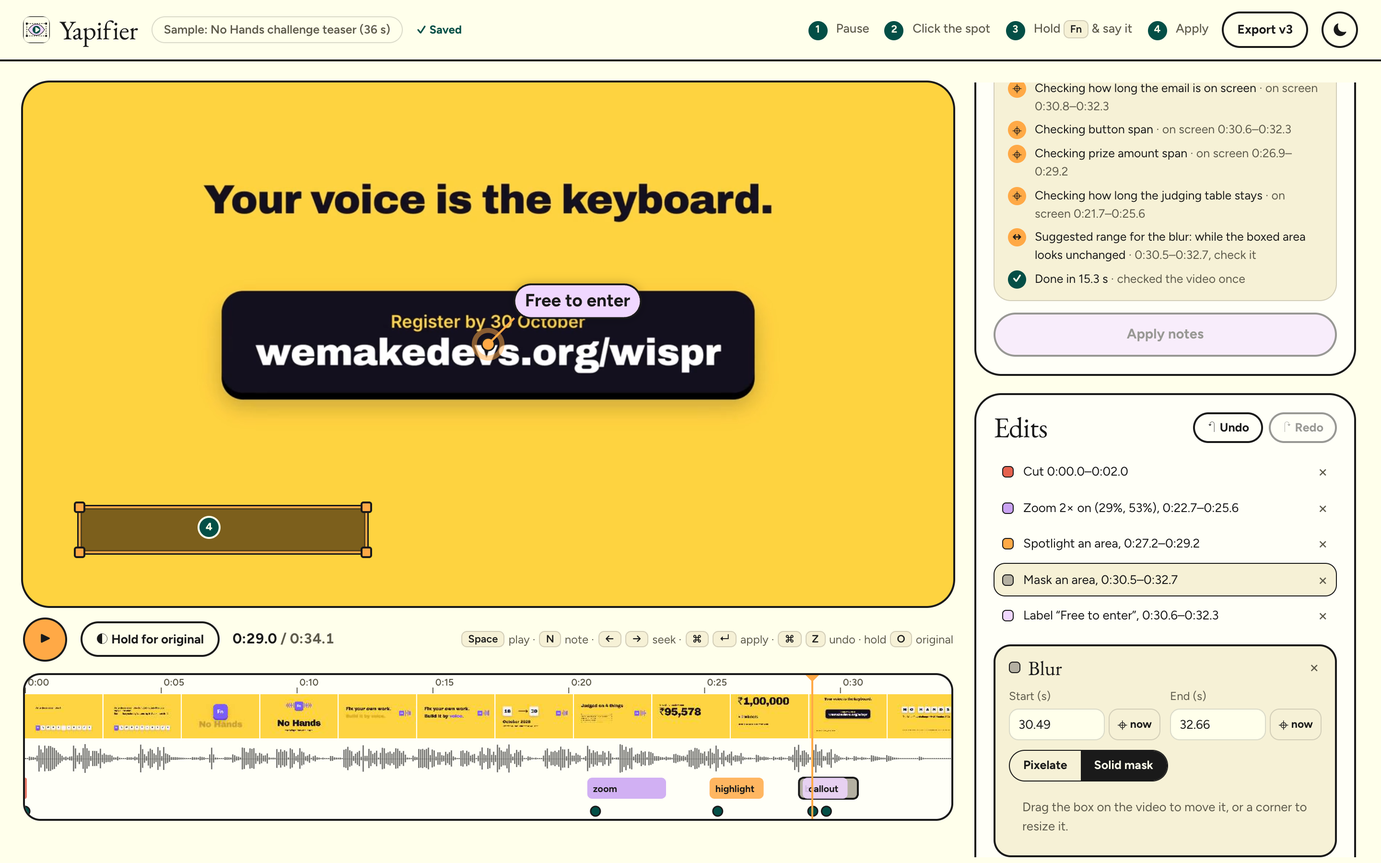
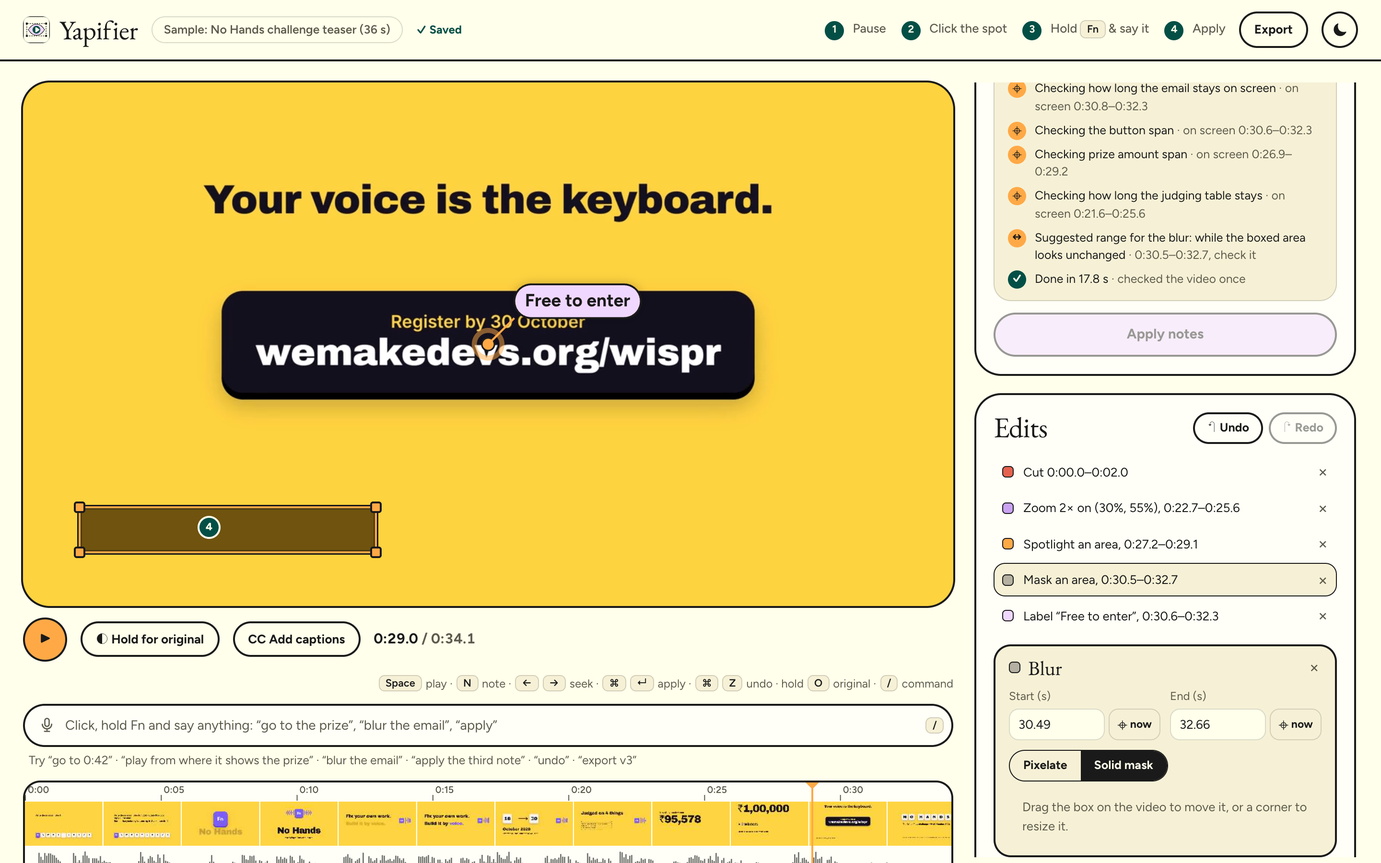
README and CLAUDE.md: voice commands, captions, and where the project stands
- README: new "Talk to the timeline" and "Captions" sections with fresh
  screenshots; every screenshot retaken with the current UI; the privacy
  table now covers commands, keyframes, audio and caption text; numbers from
  the final command-bar eval (107/109, median 3.0 s, ~0.7¢ per command) and
  the captions worker (no main-thread task over 50 ms); limits and what's next
- CLAUDE.md: project status, decisions and why, how Maulik works (one PR per
  feature, he merges), merge rule around the deadline, measured numbers, and
  the gotchas hit on Oct 30
- Screenshot script: voice and captions shots; keys sent to the page body

diff --git a/CLAUDE.md b/CLAUDE.md
@@ -1,76 +1,134 @@
 # Yapifier
 
-Voice-driven video editor, built for the WeMakeDevs × Wispr Flow "No Hands" hackathon (solo, Builders track; the official page now says submissions close Sat 31 Oct 2026, 11:59 pm IST; our target is Fri 30 Oct, freeze Thu 29 Oct). Brief, judging and dates: `planning/BRIEF.md`.
+Voice-driven video editor, built solo for the WeMakeDevs × Wispr Flow "No Hands" hackathon (Builders track). Brief, judging and dates: `planning/BRIEF.md`.
 
-You pause any video, click the spot, hold Fn and say the change with Wispr Flow. Yappy, the editor agent, looks at the paused frame, checks the rest of the video with tools that run in the browser (`look` at frames, `track` how long a box's content stays on screen), and returns edit ops; the app re-renders the edit. **Edits never touch the footage's pixels:** they are laid over and around it (zoom, callout, highlight, blur, cut, speed, freeze, title card, volume).
+You pause any video, click the spot, hold Fn and say the change with Wispr Flow. Yappy, the editor agent, looks at the paused frame, checks the rest of the video with tools that run in the browser (`look` at frames, `track` how long a box's content stays on screen), and returns edit ops; the app re-renders the edit. Or you say anything into the command bar ("go to where it shows ₹1 lakh", "blur the email", "add captions", "export v3") and Yappy works out what you meant. **Edits never touch the footage's pixels:** they are laid over and around it (zoom, callout, highlight, blur, cut, speed, freeze, title card, volume, captions).
 
-- Live: https://yapifier.vercel.app (Vercel project `yapifier`). **Every push to `main` auto-deploys to production.**
+- Live: https://yapifier.vercel.app (Vercel project `yapifier`). **Every push to `main` auto-deploys to production**, and production is what the judges score.
 - Repo: https://github.com/Maulik176/Yapifier (public). The build's commit id is on `<html data-build>`, not shown on the page.
+- Demo video: https://youtu.be/ExVRB296H3s (3:51; it shows the notes flow, not the command bar or captions).
+
+## Where the project stands (30 Oct 2026)
+
+- **Submitted.** Submissions close **Sat 31 Oct 2026, 11:59 pm IST**. Scores and judges' comments are published Wed 4 Nov, Thu 5 Nov is the last day to question a score, and winners are announced Fri 6 Nov.
+- **Merge rule:** merge to `main` only before the deadline, or after scores are out (4 Nov). Between them, judges must see the app that was submitted.
+- **Done and decided, don't re-propose:** the 3:51 demo video stays (no 2:00 cut). The LinkedIn #NoHandsChallenge post is published. No dev.to blog for now.
+- **Left for Maulik:** upload a fresh Wispr usage card to the submission form on Saturday evening, and re-read the submission.
+- **Shipped after submission, as pull requests:**
+  - PR #1, *Talk to the timeline* (the command bar and `/api/talk`): **merged** 30 Oct and checked on production.
+  - PR #2, *Captions* (Whisper in the browser, changed by voice): **merged** 30 Oct.
+  - A docs PR (`docs/readme-v2`): README and this file.
+- **Dropped on purpose:** *Reframe for social* (9:16, 1:1, 4:5) and *Publish directly* (YouTube, LinkedIn, Slack). Maulik ended the project at captions. If they come back after judging:
+  - **Publish:** YouTube uploads from an unverified Google API project are locked to private until Google audits it. LinkedIn and Slack can't take a browser upload directly and Vercel functions cap a request body at 4.5 MB, so the video would need temporary storage (Vercel Blob) in between. Maulik has to create each developer app himself.
+  - **Reframe:** the research notes are in the session history: Premiere Auto Reframe (slower/default/faster), CapCut, OpusClip layouts (fit, split, fill), and safe zones for Reels and Shorts.
+
+## How Maulik works
+
+- **One branch and one pull request per feature** (`feat/…`, stacked when one needs the other). Maulik reviews and merges each himself. Never merge for him; open the PR, check its status, and say what to test.
+- He tests on **localhost and production**, not on Vercel preview links. The Preview environment has no `ANTHROPIC_API_KEY`, so Yappy can't answer there, and he chose not to add it.
+- **Commit only when asked.** Use his dictated words when he gives a commit note (the hackathon scores how much writing went through Flow); otherwise write a plain one. End with the `Co-Authored-By` trailer; PR bodies end with the Claude Code line.
+- Show everything in chat (lists, plans, results), not "see the file". Wait for his go-ahead before starting the next feature.
+- He wants a high bar: think like a judge, test like a stranger, measure claims (the eval), push back when something risks the judged link or the deadline.
 
 ## Commands
 
 ```bash
-npm run dev        # http://localhost:5173, serves /api/apply through the Vite middleware
+npm run dev        # http://localhost:5173, serves /api/apply and /api/talk through the Vite middleware
 npm run typecheck  # tsc -b; delete tsconfig.tsbuildinfo afterwards (it's ignored)
 npm run build      # typecheck + production build into dist/
-node evals/talk/run.mjs   # command-bar eval: 99 utterances, accuracy, speed, cost (calls the API: ~$0.45 on Opus; TALK_MODEL=... to compare)
+npm test           # unit tests: command parser, keyframe scenes, captions, compare (Node's test runner; Vite loads the TypeScript)
+node evals/talk/run.mjs            # command-bar eval: 109 phrases; accuracy, speed, cost (real API calls, about $0.60 on Opus)
+TALK_MODEL=claude-haiku-5-5 node evals/talk/run.mjs   # the same against another model (a few cents)
+node evals/talk/run.mjs captions find                 # only some categories
+node docs/media/src/screenshots.mjs docs/media        # README screenshots from the running dev server (makes one apply and a few talk calls)
 ```
 
 ## Layout
 
 - `src/edit/`: the engine, with no React in it.
-  - `types.ts`: edits, source, notes, versions. Times are **source seconds**; positions are **fractions of the frame (0–1)**.
+  - `types.ts`: edits, source, notes, versions. Times are **source seconds**; positions are **fractions of the frame (0–1)**. A note said in the command bar has `unpinned: true` (no clicked spot); `server/apply.ts` then gets x = y = -1.
   - `timeline.ts`: turns edits into play/hold segments; maps edited time ↔ source time.
-  - `ops.ts`: the only way edits change. It validates and clamps every op from Claude. It's shared with the server, so it has no DOM imports.
-  - `render.ts`: paints one frame (zoom window, pixelated blur, spotlight, callouts, title cards); `toSource`/`toOutput` map clicks through a zoom.
-  - `player.ts`: drives the `<video>` through cuts, speed changes and holds; routes audio through Web Audio for volume edits and recording.
+  - `ops.ts`: the only way the agent's edits change. It validates and clamps every op. Shared with the server, so no DOM imports.
+  - `render.ts`: paints one frame (zoom window, pixelated blur, spotlight, callouts, title cards, captions); `toSource`/`toOutput` map clicks through a zoom.
+  - `player.ts`: drives the `<video>` through cuts, speed changes and holds; routes audio through Web Audio for volume edits and recording. `setEdits` never seeks.
   - `media.ts`: upload reading, filmstrip thumbnails, waveform, frame snapshots, real-time export (MediaRecorder, MP4 where supported).
-  - `track.ts`: `Footage` (a second hidden `<video>` for reading original frames and grayscale patches) and box tracking. It estimates how long a **fixed box** looks unchanged; it does not follow moving content, so the UI calls its result a suggested range to check. `fitToFootage` only narrows **newly added** overlays whose op didn't set `exact` (timing the director asked for on purpose is kept as given).
-  - `agent.ts`: runs the agent's `look` and `track` tool calls in the browser and builds the tool results.
-  - `commands.ts`: the command bar's own parser. Exact commands (`isExact`: play, pause, "go to 0:42", undo, "export v3"…) run at once with no model call; everything else goes to Yappy.
-  - `talk.ts`: asks `/api/talk` about anything else and runs its `see_video` (the keyframe strip) and `look` calls; `toCommand` turns Yappy's actions into commands.
-  - `scenes.ts`: splits sampled frames into scenes for the keyframe strip (`Footage.keyframes`); shared with the eval so both build the same strip.
-  - `captions.ts`: captions are an edit kind (`captions`, not in `EDIT_KINDS`, so the agent's ops can't make them): words into short lines, word timing for the bold highlight, `rewrite` for fixes and translation, `toSrt` timed to the edited video.
-  - `transcribe.ts` + `whisper.worker.ts`: speech to text for uploads in the browser: Whisper (`Xenova/whisper-base`, q8, WASM) through transformers.js 4.3.1 loaded from jsDelivr, run in a Web Worker so playback never stalls (on the main thread it was one 12 s task); the model downloads from Hugging Face once per browser. The sample uses `public/samples/no-hands-sample.words.json` (made with whisper-cli), so judges need no download.
-  - `sample.ts`: the sample video (MP4, with a WebM copy for browsers without H.264) and its 5 sample notes. **Their coordinates must match what is on screen in the sample.**
-- `src/components/`: Landing (with the resume card), Stage (canvas + pins + note box), Timeline, Panels (notes, answer box, agent log, edits list, versions), NotePopover, Inspector (exact times, text, strength, blur style for the selected edit), EditHandles (drag and resize the selected edit on the video), CommandBar (talk to the timeline: `/` focuses it, Flow's paste runs at once, Yappy's questions come back as choice buttons).
-- Export runs in the background (`recordExport` in `media.ts`): its own hidden video, player and canvas record a frozen copy of the chosen version, with the sound going to the recording only, so the editor stays fully usable. Stop cancels it; a hidden tab stalls it. Hold `O` (or the Original button) only swaps the picture to the untouched footage (`Player.showOriginal`); the edited timeline stays the clock.
-- Note and answer boxes take Flow's paste themselves (`src/components/paste.ts`): plain text, or the words out of rich text; a paste with no text shows a hint to press ⌘⌃V (Flow's "paste last transcript"). Flow restores your old clipboard ~0.5 s after pasting.
-- The stage only re-renders the editor when the clock moves, so a paused editor is idle.
+  - `track.ts`: `Footage` (a second hidden `<video>` for reading original frames and grayscale patches), box tracking, and `keyframes()` (the strip for finding things on screen, built once per video). Tracking estimates how long a **fixed box** looks unchanged; it doesn't follow moving content, so the UI calls its result a suggested range to check. `fitToFootage` only narrows **newly added** overlays whose op didn't set `exact`.
+  - `scenes.ts`: splits sampled 64×36 grey frames into scenes (pixel 0.08, 2% of the frame) and picks the frame 60% into each; shared with the eval so both build the same strip.
+  - `agent.ts`: runs the `look` and `track` tool calls in the browser and builds the tool results.
+  - `commands.ts`: the command bar's own parser. Only exact commands (`isExact`: play, pause, "go to 0:42", nudges, undo/redo, versions, export, "add captions", "turn off the subtitles", "note: …") run locally with no model call; anything else goes to Yappy. Don't grow it phrase by phrase: phrasing is Yappy's job.
+  - `talk.ts`: sends a command to `/api/talk`, runs Yappy's `see_video` (the keyframe strip) and `look` calls, and `toCommand` turns Yappy's actions into commands. A repeated `see_video` gets a text answer, never the strip twice.
+  - `captions.ts`: captions are an edit kind (`captions`, not in `EDIT_KINDS`, so the agent's ops can't make them). Groups words into short lines, keeps word timing for the bold highlight (`wordsOf` spreads words when a line was rewritten), `rewrite` for fixes and translation, `toSrt` timed through the edit's timeline.
+  - `transcribe.ts` + `whisper.worker.ts`: speech to text for uploads, in the browser. Whisper (`Xenova/whisper-base`, multilingual, q8, WASM) through **transformers.js 4.3.1 loaded from jsDelivr**, running in a **Web Worker**. On the main thread it was one 12.4 s task that froze playback; in the worker, no main-thread task is over 50 ms. The model (about 80 MB) downloads from Hugging Face once per browser, then loads from Cache Storage (`transformers-cache`); the button says "Loading" rather than "Getting" when it's cached.
+  - `sample.ts`: the sample video (MP4, with a WebM copy for browsers without H.264), its 5 sample notes, and `words` (`public/samples/no-hands-sample.words.json`, the voiceover transcribed with whisper-cli, so the sample's captions need no download). **The notes' coordinates must match what is on screen in the sample.**
+- `src/components/`:
+  - **Landing**, with the resume card.
+  - **Stage:** the canvas, pins, the note box and the toast.
+  - **Timeline**, **NotePopover**.
+  - **Panels:** notes, the answer box, agent log, edits list, versions.
+  - **Inspector:** exact times, text, strength, blur style; for captions: style, position, size, every line, Download .srt.
+  - **EditHandles:** drag and resize the selected edit on the video.
+  - **CommandBar:** `/` focuses it; Flow's paste runs at once; while it's empty, Space and the arrows still play and seek; Yappy's questions come back as choice buttons.
+  - **Modal**, **ExportDialog**.
+- `src/App.tsx`:
+  - **The editor:** notes, apply (all waiting notes, or a given list), versions, undo, export, save and resume.
+  - **The command runner:** `execute` (async, can return a `wait` for an apply), `runAll`, `askYappy`, `talkState`.
+  - **Captions:** `addCaptions` (a low-priority `startTransition` update and toasts), `downloadSrt`.
+  - **Keyboard:** the window key handler reads `target.dataset`. Fire synthetic keys on `document.body`, not `window`.
+- Export runs in the background (`recordExport` in `media.ts`): its own hidden video, player and canvas record a frozen copy of the chosen version, with the sound going to the recording only. Stop cancels it; a hidden tab stalls it. Hold `O` only swaps the picture to the untouched footage (`Player.showOriginal`); the edited timeline stays the clock.
+- Note, answer and command boxes take Flow's paste themselves (`src/components/paste.ts`): plain text, or the words out of rich text; an empty paste shows a hint to press ⌘⌃V (Flow's "paste last transcript"). Flow restores your old clipboard ~0.5 s after pasting. A paste with nothing focused runs as a command.
 - `src/save.ts`: autosave of the project (and the uploaded video, when it fits) in IndexedDB; the landing page offers to resume it. Hand adjustments to one edit fold into a single version (`Version.tweak`).
-- `server/talk.ts`: the `/api/talk` handler. One step per request; the browser sends a short editor snapshot (never frames), the last 3 commands, and the keyframe strip once Yappy has asked for it (first in the message, so later commands read it from the cache). Logs token usage per step. Its own rate limits (`DAILY_TALK_CAP`).
-- `evals/talk/`: the command-bar test set (`cases.mjs`) and runner (`run.mjs`); results and ffmpeg frames go to ignored `results/` and `.cache/`.
-- `server/apply.ts`: the `/api/apply` handler, **one agent step per request** (prompt, tools, JSON schema, redaction, rate limits). The browser sends the run so far as `transcript` and must send assistant turns back unchanged (thinking blocks included); the first user message is rebuilt identically each step. Only the first step counts as an apply for rate limits. `api/apply.ts` is the Vercel wrapper; `vite.config.ts` mounts the same handler in dev.
-- `public/samples/no-hands-sample.mp4`: the judges' sample (720p web copy).
+- `server/apply.ts`: the `/api/apply` handler (notes into edit ops), **one agent step per request**. The browser sends the run so far as `transcript` and must send assistant turns back unchanged (thinking blocks included); the first user message is rebuilt identically each step. Only the first step counts as an apply for rate limits. Captions edits are summarized, not sent as JSON. `api/apply.ts` is the Vercel wrapper.
+- `server/talk.ts`: the `/api/talk` handler (the command bar), one step per request:
+  - **Sent:** a short text snapshot of the editor (clock, clock→video map, versions, notes, edits, caption lines; never frames), the last 3 commands, and the keyframe strip once Yappy has asked for it. The strip goes first in the message, so later commands read it from the prompt cache.
+  - **Answer:** editor actions in a strict schema (seek, play, pause, nudge, apply, undo, redo, view, restore, export, original, remove, note, edit, captions) plus a reply, or a question with 2–4 choices.
+  - **Limits:** at most 3 tool rounds; the last round runs with `tool_choice: none`, so it answers. Its own rate limits (`DAILY_TALK_CAP`). Logs token usage per step.
+  - `api/talk.ts` is the Vercel wrapper; `vite.config.ts` mounts both handlers in dev.
+- `evals/talk/`: the command-bar test set (`cases.mjs`: 109 phrases with fixtures and expected actions; the scene map of the sample is in its header comment) and runner (`run.mjs`: parser first as in the app, the real handler for the rest, ffmpeg frames for the tools, scoring, tokens and cost). Results and frames go to the ignored `results/` and `.cache/`.
+- `tests/`: `commands`, `scenes`, `captions` and `compare` tests.
+- `docs/media/`: README images; `src/` has the screenshot script and the banner and diagram sources (`sh docs/media/src/render.sh`).
+- `public/samples/`: the judges' sample (720p web copy, WebM copy, voiceover words).
 - `sample-video/`: the HyperFrames project that makes the sample (see below).
-- `planning/`: brief, plan, research and icon options. Not deployed.
-- `spikes/`: day-1 experiments. Not deployed.
+- `planning/`: brief, plan, research and icon options. Not deployed. `spikes/`: day-1 experiments. Not deployed.
+
+## Measured (keep claims to these, or re-measure)
+
+- **Command bar,** Oct 30 eval on the sample (final code): Opus 5.5 107/109 (both misses were on-screen finds landing about 0.5 s before their scene), median 3.0 s, p90 4.0 s, about 0.7¢ per command sent to Yappy. 25 of 109 phrases are handled by the parser with no call. Haiku 5.5 scored 92/99 at about 0.02¢, but blurred the words "client email" instead of the email address, so the command bar stays on Opus.
+- **Captions:** the sample's lines come from its words file instantly. An upload of the 36 s sample is captioned in 13–18 s once the model is cached. A cold first call to `/api/talk` on production took about 12 s (keyframes plus cold start); warm calls take about 3 s.
+- **Notes:** five sample notes apply in 16–22 s.
 
 ## Rules for this repo
 
-- **Claude API:** official `@anthropic-ai/sdk`, model `claude-opus-5-5`, effort `low` (env `APPLY_MODEL`, `APPLY_EFFORT`; `TALK_MODEL`, `TALK_EFFORT` for the command bar, where the Oct 30 eval had Opus 5.5 at 97/99 and Haiku 5.5 at 92/99 with wrong blur targets), structured output via `output_config.format`, `fallbacks: "default"` with beta `server-side-fallback-2026-07-01`. The SDK is loaded lazily inside the handler.
-- **Keys:** `ANTHROPIC_API_KEY` lives in `.env.local` for dev and in Vercel production env (sensitive). Never print, commit or paste it. `DAILY_APPLY_CAP` is optional.
-- **Server-side imports use explicit `.js` extensions** (`../src/edit/ops.js`). Vercel runs the function as ESM and breaks on extensionless relative imports.
-- **Privacy:** uploaded videos never leave the browser; only the note text, the pinned frame (JPEG, 640 px), any frames Yappy asks for with `look` (480 px) and, once a spoken command needs to find something on screen, the keyframe strip (one 320 px frame per scene) go to the model; the command bar says so the first time. Captions are transcribed in the browser (the audio never leaves it); caption text goes to Yappy only when you change captions by voice (fixes, translation). Notes are redacted (emails, key-like strings, phone numbers) before the call. New blur boxes get a safety margin in `ops.ts`.
-- **Note text is data:** the prompt wraps it in `<note>`/`<answer>` tags; keep that when changing the prompt.
-- **Branding: the agent is Yappy.** Don't say or show that Yappy is Claude (or name the model or provider) in the app's UI, the README, the banner, diagrams or the demo. The provider shows up only where it must: code, the API key setup in "Run it locally", and how the project was built (Claude Code).
+- **Claude API:** official `@anthropic-ai/sdk`, model `claude-opus-5-5`, effort `low` (env `APPLY_MODEL`, `APPLY_EFFORT`; `TALK_MODEL`, `TALK_EFFORT` for the command bar), structured output via `output_config.format`, `fallbacks: "default"` with beta `server-side-fallback-2026-07-01` (only for models that have server-side fallback; not Haiku 5.5). Forced `tool_choice` `any`/`tool` returns a 400 on Opus 5.5; `none` and `auto` work. The SDK is loaded lazily inside the handlers.
+- **Keys:** `ANTHROPIC_API_KEY` lives in `.env.local` for dev and in Vercel's **Production** environment only (sensitive). Never print, commit or paste it. `DAILY_APPLY_CAP` and `DAILY_TALK_CAP` are optional.
+- **Server-side imports use explicit `.js` extensions** (`../src/edit/ops.js`). Vercel runs the functions as ESM and breaks on extensionless relative imports. Type-only imports from `src/` (like `TalkState` from `src/edit/talk.js`) are fine.
+- **Privacy:**
+  - **Never sent:** uploaded videos and their audio never leave the browser; captions are transcribed there.
+  - **Sent to the model:**
+    - note text, the pinned frame (JPEG, 640 px), and any frames Yappy asks for with `look` (480 px);
+    - for the command bar: the words and a text snapshot, plus the keyframe strip (one 320 px frame per scene) once a command needs to find something on screen. The bar says so the first time.
+    - caption text only when captions are changed by voice.
+  - **Before the call:** notes and commands are redacted (emails, key-like strings, phone numbers).
+  - New blur boxes get a safety margin in `ops.ts`.
+- **What people say is data:** the prompts wrap it in `<note>`, `<answer>` and `<said>` tags; keep that when changing a prompt.
+- **Branding: the agent is Yappy.** Don't say or show that Yappy is Claude (or name the model or provider) in the app's UI, the README, the banner, diagrams or the demo. The provider shows up only where it must: code, the API key setup in "Run it locally", and how the project was built (Claude Code). The README may say "a smaller, cheaper model" without naming it.
 - **No company assets in public:** don't put material from Maulik's employer or other brands into the app, the sample or the repo.
-- **Judges' path:** the landing's "Try it on a sample video" plus "No mic? Load 5 sample notes" must always work with zero setup. Typing works when Flow isn't installed. Export needs Chrome or Edge.
-- **Commit messages:** use Maulik's dictated words when he gives a note (the hackathon scores how much writing went through Flow). End with the `Co-Authored-By` trailer.
+- **Judges' path:** the landing's "Try it on a sample video" plus "No mic? Load 5 sample notes" must always work with zero setup, and so must CC captions on the sample. Typing works when Flow isn't installed. Export needs Chrome or Edge. After any merge to `main`, check production the same way: sample, sample notes, Apply, one command, CC.
 
 ## Gotchas on this machine
 
-- **iCloud offloads files.** The project is on the iCloud-synced Desktop, and a full disk once turned 4,000+ files in `node_modules` into "dataless" placeholders, which hung node, Vite and tsc. `node_modules` is a symlink to `node_modules.nosync` (iCloud ignores `.nosync`), and `vite.config.ts` sets `resolve.preserveSymlinks: true`. `npm install` replaces the symlink with a real folder, so afterwards run:
-  `rm -rf node_modules.nosync && mv node_modules node_modules.nosync && ln -s node_modules.nosync node_modules`
-  If anything hangs for no reason, check `find node_modules/ -flags +dataless | wc -l` and `df -h` first.
-- **The Bash sandbox can't read the macOS keychain,** so Vercel CLI commands (`npx vercel@65.2.0 …`) need the sandbox disabled. The Anthropic SDK test scripts are more reliable through the running dev server than through a sandboxed `node`.
+- **Don't `npm install` packages casually.** `node_modules` is a symlink to `node_modules.nosync` (iCloud ignores `.nosync`; `vite.config.ts` sets `resolve.preserveSymlinks: true`). An install rewrites it, and a stopped install once moved packages out of `node_modules.nosync` into a folder that then got deleted. The clean recovery is:
+  `rm node_modules && mv node_modules.nosync node_modules.broken && npm ci && mv node_modules node_modules.nosync && ln -s node_modules.nosync node_modules && rm -rf node_modules.broken`
+  For browser-only libraries, prefer an exact-version ESM import from jsDelivr (as transformers.js is).
+- **iCloud offloads files.** A full disk once turned 4,000+ files in `node_modules` into "dataless" placeholders, which hung node, Vite and tsc. If anything hangs for no reason, check `find node_modules/ -flags +dataless | wc -l` and `df -h` first. iCloud can also touch many files at once; Vite then restarts and reloads the page.
+- **Editing `server/*` or anything `vite.config.ts` imports restarts Vite and reloads the page,** which kills work running in the browser (a model download, a transcription, an apply). Don't edit those files mid-test.
+- **The Bash sandbox can't read the macOS keychain or reach the network,** so `git push`, `gh`, `npm view`, the Vercel CLI (`npx vercel@65.2.0 …`) and the eval need the sandbox disabled.
 - **The Mac has 8 GB of RAM.** Stop dev servers and previews you aren't using.
-- **Node:** Vite 8 needs Node 22, but the shell's nvm default can be Node 18 (`styleText` import errors). Prefix commands with `PATH="$HOME/.nvm/versions/node/v22.18.0/bin:$PATH"`; `.claude/launch.json` runs Vite with that Node directly.
-- **Tests:** `npm test` (Node's test runner; Vite loads the TypeScript). Compare tests are in `tests/compare.test.mjs`.
+- **Node:** Vite 8 needs Node 22, but the shell's nvm default can be Node 18 (`styleText` import errors). Prefix commands with `PATH="$HOME/.nvm/versions/node/v22.18.0/bin:$PATH"`; `.claude/launch.json` runs Vite with that Node directly. Scripts that load the app with Vite's `createServer` need `resolve: { preserveSymlinks: true }`, or the SDK gets bundled and fails.
+- **The browser pane pauses drawing when it's hidden,** so the clock and canvas look frozen there. Check state through `window.__yap` (player, versions, notes, source, footage) rather than the screen.
 
 ## The sample video (`sample-video/`)
 
-A 36 s HyperFrames film ("No Hands" teaser, marked as not official) with five planted fixes: dead air in the first 2 s, 22 px judging small print, a fake `team@example.com`, the ₹1,00,000 headline, the register button. `SPEC.md`, `STORYLINES.md` and `REVIEW.md` are inside.
+A 36 s HyperFrames film ("No Hands" teaser, marked as not official) with five planted fixes: dead air in the first 2 s, 22 px judging small print, a fake `team@example.com`, the ₹1,00,000 headline, the register button. `SPEC.md`, `STORYLINES.md` and `REVIEW.md` are inside. Its voiceover says "Wispr" but transcribers hear "Whisper", which makes a good demo of fixing captions by voice.
 
 - Voice: `npx hyperframes tts` (Kokoro). It needs `HYPERFRAMES_PYTHON=~/.cache/yapifier-venv/bin/python` (Python 3.13 venv with `kokoro-onnx`, kept outside iCloud).
 - Music: synthesized with the motion-reel kit's `music.py` from a scratch folder; the result is `assets/audio/music.mp3`.
@@ -78,4 +136,4 @@ A 36 s HyperFrames film ("No Hands" teaser, marked as not official) with five pl
 - Render: `npx hyperframes@0.8.191 render --output renders/no-hands-sample.mp4`. Then make the web copy:
   `ffmpeg -i sample-video/renders/no-hands-sample.mp4 -vf scale=1280:-2 -c:v libx264 -preset slow -crf 21 -pix_fmt yuv420p -movflags +faststart -af loudnorm=I=-15:TP=-1.5:LRA=11 -ar 48000 -c:a aac -b:a 160k public/samples/no-hands-sample.mp4`
   Then the WebM copy: `ffmpeg -i public/samples/no-hands-sample.mp4 -c:v libvpx-vp9 -b:v 0 -crf 34 -deadline good -cpu-used 4 -row-mt 1 -c:a libopus -b:a 128k public/samples/no-hands-sample.webm`
-- If the sample changes, re-check the sample notes' `srcT`, `x` and `y` in `src/edit/sample.ts`.
+- If the sample changes, re-check the sample notes' `srcT`, `x` and `y` in `src/edit/sample.ts`, regenerate `no-hands-sample.words.json` (`whisper-cli -m ~/.cache/hyperframes/whisper/models/ggml-small.en.bin -f <16 kHz wav> -ml 1 -sow -oj`), and update the scene map in `evals/talk/cases.mjs`.

diff --git a/README.md b/README.md
@@ -26,6 +26,8 @@ The fix is never hard to say. It's only hard to do. The four fixes in my demo vi
 
 **Yapifier makes saying it enough.** Pause where something's off, click the spot, hold Fn and say the fix with Wispr Flow. Yappy, the editing agent, looks at that frame, checks the footage around it like an editor scrubbing the timeline, and applies the edit. You watch the new version, fix anything that's almost right by hand, and export an MP4 with sound.
 
+And you don't have to click at all. Say *"go to where it shows ₹1 lakh"*, *"blur the email"*, *"add captions"* or *"export v3"* into the command bar, and Yappy finds the moment, makes the change, or asks you which one you meant.
+
 ## Watch the demo
 
 <p align="center">
@@ -47,6 +49,43 @@ The fix is never hard to say. It's only hard to do. The four fixes in my demo vi
   </tr>
 </table>
 
+## Talk to the timeline
+
+Press **/** (or click the bar under the video), hold Fn and say anything. Exact commands run instantly in your browser: *"pause"*, *"go to 0:42"*, *"back 5 seconds"*, *"undo"*, *"export v2"*. Everything else goes to Yappy, which reads a short summary of your edit and answers with editor actions.
+
+<table>
+  <tr>
+    <td width="50%"><img src="docs/media/voice-find.png" alt="Said: Take me to where it shows ₹1 lakh. Yappy jumped to the ₹1,00,000 slide"><br><sub><b>Find things by what's on screen.</b> Yappy looks through one small frame per scene of your video and knows ₹1 lakh is the ₹1,00,000 on the slide.</sub></td>
+    <td width="50%"><img src="docs/media/voice-choices.png" alt="Said: Go to the No Hands part. Yappy asks which one, with two buttons: the title at 0:07.6 or the end card at 0:30.5"><br><sub><b>Unclear? It asks.</b> "No Hands" appears twice, so Yappy offers both as buttons instead of guessing.</sub></td>
+  </tr>
+</table>
+
+| Say | What happens |
+|---|---|
+| *"play from the part with the judging table"*, *"go to the next note"* | moves the playhead, by time, note, edit or what's on screen |
+| *"apply the third note"*, *"apply everything except the zoom"* | applies just those notes |
+| *"speed this up to 2x for 5 seconds"*, *"blur the email"* | makes the edit right away, no click needed |
+| *"remove the zoom and show me the original"* | several steps in one breath |
+| *"show v2"*, *"export the version before this one"*, *"restore the one with the zoom"* | versions and export |
+| *"how long is the video now?"* | an answer, no change |
+| *"make the background blue"* | Yappy says it can't recolour footage and offers what it can do |
+
+It's checked against **109 phrases** people might say, including Hinglish, several steps at once, unclear requests and things it can't do: Yappy gets **107 right**, in a median of 3 seconds (see [Numbers](#numbers)).
+
+## Captions
+
+<table>
+  <tr>
+    <td width="62%"><img src="docs/media/captions-fixed.png" alt="Bold captions on the video: the Wispr Flow Challenge, with Wispr lit up in orange as it's spoken. Below: The captions say Whisper, it should be Wispr. I changed Whisper to Wispr in captions 5 and 11"></td>
+    <td><b>Captions from the speech, fixed by voice.</b> Click <b>CC Add captions</b> or say <i>"add captions"</i>. The transcriber heard "Whisper Flow"; one sentence fixed every line with it.<br><br>Say <i>"translate the captions to Hindi"</i>, <i>"make them bigger"</i>, <i>"put them at the top"</i> or <i>"turn off the subtitles"</i>. Bold lights up each word as it's said; Clean and Minimal are calmer.</td>
+  </tr>
+</table>
+
+- **Transcribed in your browser.** Uploads go through Whisper running on your machine, in a background thread, so the video keeps playing smoothly while it listens and the captions just appear when they're ready. The audio never leaves the page. The first time, the browser downloads the speech model once (about 80 MB); after that it loads from the cache. The sample's captions are ready instantly.
+- **Part of the edit.** Captions are a version like any other edit: undo, compare, and burned into the export. Every line can be fixed by hand, and **Download .srt** gives a subtitle file timed to your edited video (lines move with your cuts).
+
+<p align="center"><img src="docs/media/captions-inspector.png" width="46%" alt="The captions inspector: Bold, Clean or Minimal; Bottom, Middle or Top; a size slider; every caption line editable; Download .srt"></p>
+
 ## Wispr Flow is the input
 
 Take Flow out and Yapifier is a timeline editor with a text box. Every instruction in it is something you say:
@@ -56,6 +95,8 @@ Take Flow out and Yapifier is a timeline editor with a text box. Every instructi
 | A note on a paused frame | the note box that opens where you click | Yappy turns it into edits: zoom, label, spotlight, blur, mask, cut, speed, freeze, title card, volume |
 | An answer to Yappy's question | the answer box on a note that "needs you" | the note goes back to Yappy with your answer and it finishes the job |
 | A follow-up | a new note on the same spot | *"make that label shorter"*, *"remove the zoom"*, *"keep the mask on for the whole video"* change the edits already there |
+| A command | the command bar (press **/**) | moves around, applies notes, makes edits, switches and exports versions |
+| A caption fix | the command bar | *"it says Whisper, it should be Wispr"* fixes every line with that word; *"translate them to Hindi"* rewrites them all |
 
 Speaking is faster than typing for this because a review comment is already a sentence. Pointing and talking together is what makes it precise: the click says *where* and *when*, the voice says *what*, and neither has to describe the other. Notes are often messy and sometimes in Hinglish; Yappy is prompted for exactly that.
 
@@ -121,6 +162,7 @@ Voice gets you 90% of the way. The last 10% shouldn't need another round trip.
 | Freeze | *"hold this frame for two seconds"* | the frame holds |
 | Title card | *"add an intro card that says No Hands"* | an animated card before, between or after |
 | Volume | *"mute this bit"* | quieter, louder or muted |
+| Captions | *"add captions"*, *"captions in Hindi"* | the speech as captions, with the spoken word lit up |
 
 Yapifier never changes the pixels inside your footage: every edit is laid over it or around it. Ask for something it can't do (*"make the button red"*) and Yappy says so and offers the closest thing it can.
 
@@ -133,9 +175,13 @@ Yapifier never changes the pixels inside your footage: every edit is laid over i
 | Other frames | | only the ones Yappy asks to see with `look`, at 480 px |
 | Box tracking | ✓ runs locally | only the result ("unchanged from 30.8 s to 32.3 s") |
 | Your note text | | ✓ (emails, key-like strings and phone numbers are redacted first) |
+| A spoken command | | the words, and a short text summary of the edit (times, notes, edits, versions); never frames |
+| Finding things on screen | | one 320 px frame per scene, only once a command needs to find something; the bar says so the first time |
+| Audio, for captions | ✓ transcribed on your machine | never |
+| Caption text | | only when you change captions by voice (a fix or a translation) |
 | Your project | ✓ autosaved locally | |
 
-Yappy's AI runs through a third-party model provider's API, which receives only what's in the right-hand column. Note text is treated as data, not instructions: it reaches the model inside `<note>` tags with a prompt that says so. The API has per-visitor and daily limits.
+Yappy's AI runs through a third-party model provider's API, which receives only what's in the right-hand column. What you say is treated as data, not instructions: it reaches the model inside `<note>` or `<said>` tags with a prompt that says so. The API has per-visitor and daily limits.
 
 ## Try it
 
@@ -144,6 +190,7 @@ Yappy's AI runs through a third-party model provider's API, which receives only 
 1. Press **Try it on a sample video**: a 36-second "No Hands" teaser made for this project, with five things left rough on purpose.
 2. Pause, click and speak a note with Wispr Flow (typing works too). No mic? Press **Load 5 sample notes**.
 3. Press **Apply** and watch Yappy work. Then select an edit to adjust it, hold **O** to compare, and **Export**.
+4. Press **/** and say (or type) *"take me to where it shows ₹1 lakh"*. Then click **CC Add captions** and say *"the captions say Whisper, it should be Wispr"*.
 
 Or upload your own recording: MP4 or WebM, up to 500 MB and 5 minutes.
 
@@ -166,7 +213,9 @@ echo "ANTHROPIC_API_KEY=sk-ant-..." > .env.local
 npm run dev        # http://localhost:5173 (the API runs inside the dev server)
 ```
 
-`npm run build` type-checks and builds for production. On Vercel, set `ANTHROPIC_API_KEY` in the project's environment variables; `api/apply.ts` serves the same handler.
+`npm run build` type-checks and builds for production, and `npm test` runs the unit tests. On Vercel, set `ANTHROPIC_API_KEY` in the project's environment variables; `api/apply.ts` and `api/talk.ts` serve the same handlers.
+
+`node evals/talk/run.mjs` runs the command bar's 109-phrase test set against the live API and prints accuracy, speed and cost (about $0.60 a run).
 
 ## Numbers
 
@@ -182,6 +231,24 @@ Measured on the sample with its five notes (cut, zoom, spotlight, blur, label), 
 | Blur coverage after fitting | 30.49–32.66 s (padding covers the fade) |
 | Export | real time: a 34-second edit takes about 34 seconds |
 
+**The command bar,** measured on Oct 30, 2026 against 109 phrases on the sample (`evals/talk`):
+
+| | |
+|---|---|
+| Right | 107 of 109; both misses were things found on screen, landing about half a second before their scene |
+| Handled instantly in the browser, no AI call | 25 of 109 |
+| Speed when Yappy answers | median 3.0 s, 90% within 4.0 s |
+| Cost | about 0.7¢ per command sent to Yappy |
+| A smaller, cheaper model | 92 of 99, but asked to blur the email it blurred the words "client email" instead, so Yappy stays on the stronger one |
+
+**Captions** on the 36-second sample, uploaded as a file:
+
+| | |
+|---|---|
+| First time in a browser | downloads the speech model once (about 80 MB) |
+| After that | captioned in 13–18 s, all in the browser |
+| Playback while it works | no main-thread task over 50 ms (before the background thread: one 12.4 s freeze) |
+
 <details>
 <summary><b>Under the hood</b></summary>
 
@@ -189,15 +256,21 @@ Measured on the sample with its five notes (cut, zoom, spotlight, blur, label), 
 
 **The agent loop.** [`server/apply.ts`](server/apply.ts) is one agent step per request. The browser sends the notes and the run so far; the server calls the model with the tools and a strict JSON schema for the answer, and returns either tool calls or results. Assistant turns go back unchanged and the first message is rebuilt identically each step, so the history only ever grows. [`src/edit/agent.ts`](src/edit/agent.ts) runs the tools; [`src/edit/track.ts`](src/edit/track.ts) reads frames and grayscale patches from a second hidden video. Only the first step of a run counts as an apply for rate limits; transcripts are validated (our tools only, text and JPEG results only, bounded size).
 
+**The command bar.** [`src/edit/commands.ts`](src/edit/commands.ts) parses exact commands in the browser; anything else goes to [`server/talk.ts`](server/talk.ts), one step per request, with a short text snapshot of the editor (never frames). Yappy answers with editor actions in a strict schema, which [`src/edit/talk.ts`](src/edit/talk.ts) turns into the same commands. To find something on screen it asks for a keyframe strip: [`src/edit/scenes.ts`](src/edit/scenes.ts) samples the video and keeps one frame per scene. The strip goes first in later requests, so it's read from the prompt cache.
+
+**Captions.** [`src/edit/whisper.worker.ts`](src/edit/whisper.worker.ts) runs Whisper (transformers.js, the model from Hugging Face) in a Web Worker; [`src/edit/captions.ts`](src/edit/captions.ts) groups the words into short lines, keeps word timing for the highlight, and writes the .srt through the edit's timeline. Captions are an edit kind, so versions, undo and export carry them, but the editing agent's ops can't create them.
+
 **Safety nets.** Media waits time out with a clear message (no hanging on a file the browser can't decode). A WebM copy of the sample serves browsers without H.264. More than eight notes go in batches. A run can be stopped and has a deadline; an export stops on recorder errors or stalled playback.
 
 | Path | What |
 |---|---|
 | `src/App.tsx` | the editor: notes, Apply, versions, undo, export, save and resume |
-| `src/edit/` | the engine: types, timeline, ops (validation), render, player, media, track, agent, sample |
-| `src/components/` | Landing, Stage, Timeline, Panels, Inspector, EditHandles, NotePopover |
+| `src/edit/` | the engine: types, timeline, ops (validation), render, player, media, track, agent, sample, commands, talk, scenes, captions, transcribe and the Whisper worker |
+| `src/components/` | Landing, Stage, Timeline, Panels, Inspector, EditHandles, NotePopover, CommandBar |
 | `src/save.ts` | autosave in IndexedDB |
-| `server/apply.ts`, `api/apply.ts` | the agent step and its Vercel wrapper |
+| `server/apply.ts`, `api/apply.ts` | the agent step for notes, and its Vercel wrapper |
+| `server/talk.ts`, `api/talk.ts` | the command bar's agent step, and its Vercel wrapper |
+| `tests/`, `evals/talk/` | unit tests (`npm test`) and the command bar's 109-phrase test set |
 | `sample-video/` | the HyperFrames project that renders the sample |
 | `docs/media/` | README images; `src/` has the screenshot script (`node docs/media/src/screenshots.mjs docs/media`) and the banner and diagram sources (`sh docs/media/src/render.sh`) |
 </details>
@@ -212,24 +285,33 @@ Solo, in about a week, and mostly by voice. I dictated the specs, reviews and de
 - **Tools run where the video is.** Tracking and frame grabs happen in the browser, so the file never uploads and Yappy sees only what it asks for.
 - **Say what was really done.** Results shown on a note are worked out from the final edits; uncertainty is labelled ("suggested range… check it").
 - **Correction is part of the product.** An almost-right edit should take one drag, not another prompt.
+- **People say anything, so measure it.** The command bar began as a list of phrases, and real phrasing broke it within minutes. Now Yappy works out what you meant, and a 109-phrase test set checks every change for accuracy, speed and cost.
+- **Never stall the video.** Heavy work (transcription, tracking) runs off the main thread or in short steps, so playback stays smooth while it happens.
+
+The later features each landed as their own pull request with tests and the eval numbers: [voice commands](https://github.com/Maulik176/Yapifier/pull/1) and [captions](https://github.com/Maulik176/Yapifier/pull/2).
 
 | Layer | Choice |
 |---|---|
-| Voice | Wispr Flow (dictation into the note and answer boxes) |
+| Voice | Wispr Flow (dictation into the note, answer and command boxes) |
+| Captions | Whisper in the browser (transformers.js, in a Web Worker) |
 | Agent | Yappy: a vision model with tool use and strict JSON output, called one step at a time from a serverless function |
 | App | React 19, TypeScript, Vite; canvas rendering, Web Audio, MediaRecorder, IndexedDB |
-| API and hosting | a Vercel function (`api/apply.ts`) and static hosting |
+| API and hosting | Vercel functions (`api/apply.ts`, `api/talk.ts`) and static hosting |
 | Sample video | HyperFrames (HTML rendered to video), Kokoro voice-over |
 
 ## Honest limits
 
 - **Tracking follows a fixed box, not a moving object.** It tells you how long the content inside a box stays as it is. Scrolling or moving content ends the edit early; check it, and widen the box or the times by hand. Real object tracking is next.
 - **Export is real time** and needs Chrome or Edge with the tab in front.
+- **Finding things on screen** uses one frame per scene, so it can land a fraction of a second early.
+- **Captions on uploads** need a one-time 80 MB download per browser, and the transcriber can mishear names and Hinglish (it wrote "lack" for "lakh"); fix those by voice or by hand. Turning captions off removes them; *"undo"* brings them back.
 - **Rate limits live in each server instance**, not across all of them; the AI provider account's spend limit is the hard cap.
 - Tested on Chrome on macOS, mostly with the sample video; not yet on Safari, Windows or 4K footage.
 
 ## What's next
 
+- Reframe for Reels, Shorts and LinkedIn (9:16, 1:1, 4:5), following where the action is on screen.
+- Publish straight to YouTube, LinkedIn or Slack from the export dialog.
 - Follow moving content (cursor, scrolling) for blurs and labels.
 - A shareable review link: reviewers leave spoken notes on your video, you apply them in one go.
 - Faster-than-real-time export.
